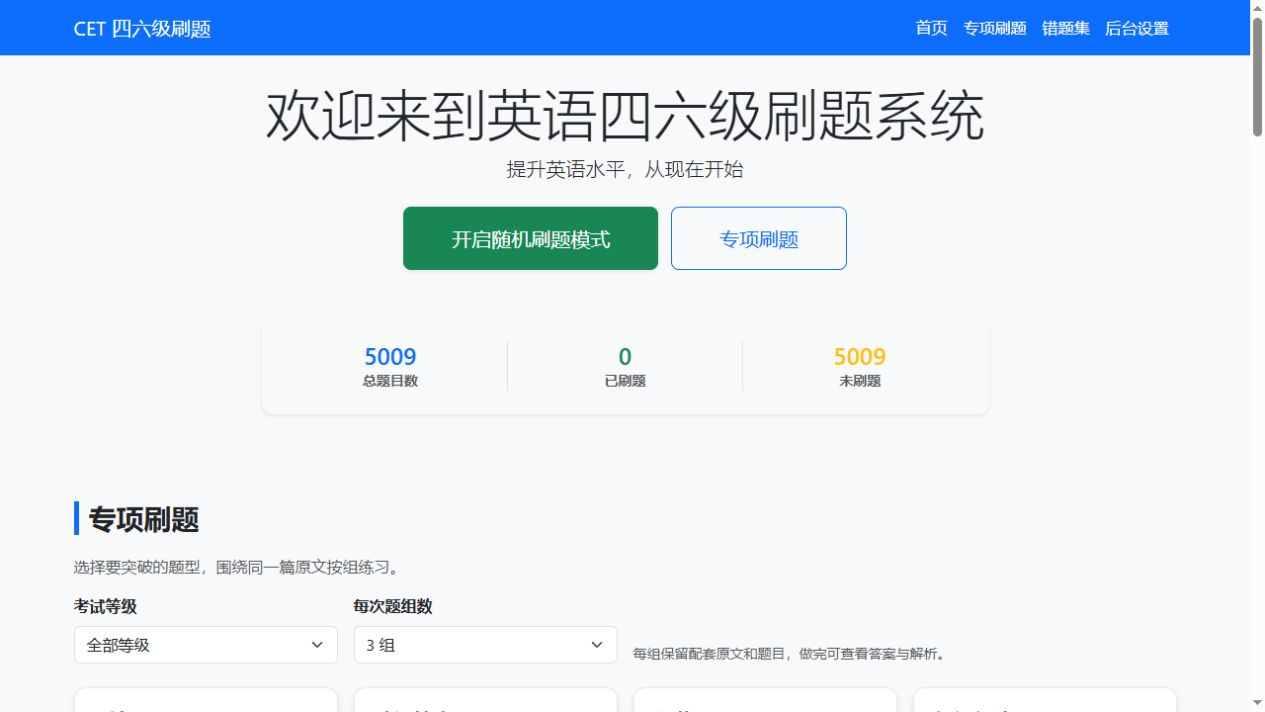
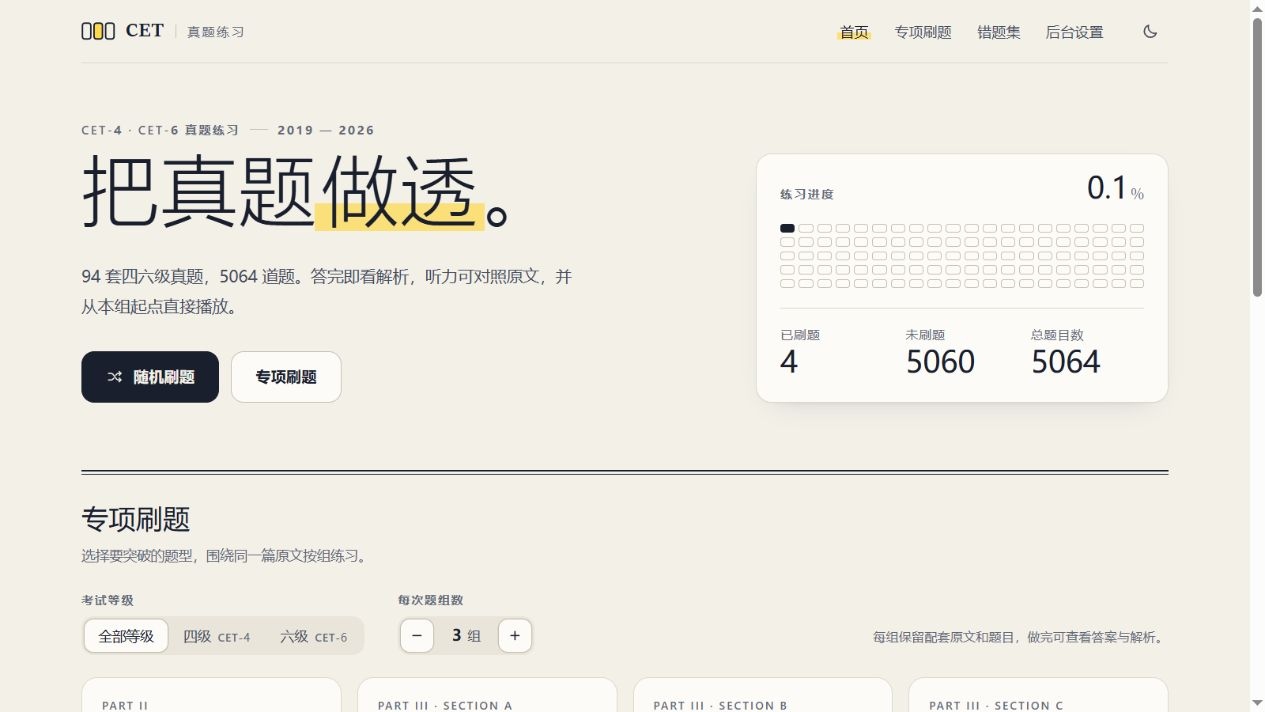
Document Windows 1.2.0 downloads and refresh interface screenshots

diff --git a/README.md b/README.md
@@ -4,23 +4,25 @@
 
 ## 下载与使用
 
-当前版本：**1.1.0**。两个程序包适用于 Windows 10/11 x64，均为未签名便携版，解压后使用，无需安装 Python。
+当前版本：**1.2.0**。桌面程序和网页启动器均已采用下方展示的新界面与常规数字字体。两个程序包适用于 Windows 10/11 x64，均为未签名便携版，解压后使用，无需安装 Python。
 
 | 版本 | 下载 | 使用方式 |
 | --- | --- | --- |
-| Windows 桌面程序 | [桌面版 ZIP](https://github.com/ShepiTT/CET_practice_questions/releases/download/v1.1.0/cet-practice-1.1.0-windows-desktop-x64.zip)（881.8 MB） | 解压完整目录，双击 `CETPractice.exe`，在独立窗口中刷题；需要系统 Edge WebView2 和 .NET 运行环境。 |
-| Windows 网页启动器 | [网页启动器 ZIP](https://github.com/ShepiTT/CET_practice_questions/releases/download/v1.1.0/cet-practice-1.1.0-windows-web-launcher-x64.zip)（881.8 MB） | 解压完整目录，双击 `CETPractice-Web.exe`，使用默认浏览器刷题；附带控制窗，可重新打开页面或退出服务。 |
-| 源码 | [下载 1.1.0 源码](https://github.com/ShepiTT/CET_practice_questions/archive/refs/tags/v1.1.0.zip) | 按下方“快速开始”安装 Python 依赖并启动。 |
+| Windows 桌面程序 | [桌面版 ZIP](https://github.com/ShepiTT/CET_practice_questions/releases/download/v1.2.0/cet-practice-1.2.0-windows-desktop-x64.zip)（834.9 MB） | 解压完整目录，双击 `CETPractice.exe`，在独立窗口中刷题；需要系统 Edge WebView2 和 .NET 运行环境。 |
+| Windows 网页启动器 | [网页启动器 ZIP](https://github.com/ShepiTT/CET_practice_questions/releases/download/v1.2.0/cet-practice-1.2.0-windows-web-launcher-x64.zip)（834.9 MB） | 解压完整目录，双击 `CETPractice-Web.exe`，使用默认浏览器刷题；附带控制窗，可重新打开页面或退出服务。 |
+| 源码 | [下载 1.2.0 源码](https://github.com/ShepiTT/CET_practice_questions/archive/refs/tags/v1.2.0.zip) | 按下方“快速开始”安装 Python 依赖并启动。 |
 
 两个程序包都包含题库、94 个 MP3 及对应试卷、答案 PDF，页面样式和脚本也随包提供，可以离线练习。请保留解压后的完整目录，**不要只拷贝 EXE**。
 
 两版本共用 `%LOCALAPPDATA%\CETPractice` 中的个人数据库，练习记录仅保存在本机。更新前先退出旧程序，将新版解压到新文件夹后启动；程序会自动备份并追加新增试卷，保留已有题目修订和练习记录；下载包不包含发布者的个人练习记录。关闭网页浏览器不会停止本地服务，用完请在网页启动器控制窗中点击“关闭服务”。桌面版缺少 WebView2 时，可从[微软官网下载运行环境](https://developer.microsoft.com/microsoft-edge/webview2/)，或使用网页启动器版。
 
-版本说明和附件见 [Release 页面](https://github.com/ShepiTT/CET_practice_questions/releases/tag/v1.1.0)，下载后可使用 [SHA-256 校验文件](https://github.com/ShepiTT/CET_practice_questions/releases/download/v1.1.0/SHA256SUMS.txt) 核对文件。程序运行和自动化检查不代表全库逐题人工验收；内容核验范围见下方“数据状态与使用范围”。
+版本说明和附件见 [Release 页面](https://github.com/ShepiTT/CET_practice_questions/releases/tag/v1.2.0)，下载后可使用 [SHA-256 校验文件](https://github.com/ShepiTT/CET_practice_questions/releases/download/v1.2.0/SHA256SUMS.txt) 核对文件。程序运行和自动化检查不代表全库逐题人工验收；内容核验范围见下方“数据状态与使用范围”。
 
-打包与启动检查见 [Windows 版验证记录](reports/windows-release-validation-1.1.0.json)，公开附件大小、SHA-256 和匿名访问核验见 [下载校验记录](https://github.com/ShepiTT/CET_practice_questions/blob/main/reports/windows-release-publication-1.1.0.json)。
+打包与启动检查见 [Windows 版验证记录](reports/windows-release-validation-1.2.0.json)，公开附件大小、SHA-256 和匿名访问核验见 [下载校验记录](https://github.com/ShepiTT/CET_practice_questions/blob/main/reports/windows-release-publication-1.2.0.json)。
 
 ## 界面展示
+
+以下为 1.2.0 的实际界面。首页统计、年份、题号与听力时间采用常规数字字体；Windows 优先使用微软雅黑。页面提供答题进度、题号定位与可收起的原文和解析。
 
 ### 首页 · 选择等级与试卷
 
@@ -38,7 +40,7 @@
 
 从题组起点播放录音，按需展开听力原文和解析。共享听力会明确标注实际来源，选项与判分始终对应同一套题。
 
-![听力练习的播放控件、选项与答案解析](docs/images/listening-practice.jpg)
+![听力练习的播放控件、题号与选项](docs/images/listening-practice.jpg)
 
 ### 2026 年 6 月六级第 1 套
 
@@ -56,7 +58,8 @@
 | 专项刷题 | 按四级、六级或全部等级筛选，每次抽取 1–10 个题组，默认 3 组；换一批保留筛选条件。 |
 | 随机练习 | 从可用题组中抽取练习，保留原文、词库、音频与解析。 |
 | 听力播放 | 每组有播放按钮和起点定位，支持显示、隐藏听力原文。 |
-| 作答与解析 | 提交后即时判分，可展开答案和详细解析。 |
+| 作答与解析 | 提交后即时判分，可展开答案和详细解析；“显示所有答案”只查看答案，不写入练习记录。 |
+| 进度与题号定位 | 查看本次已答数量和对错统计，通过答题卡跳到指定题目。 |
 | 错题复习 | 按完整题组回看错题，并支持再次作答。 |
 | 题库维护 | 从 PDF 导入题目，在后台手动校对或批量导入答案、解析。 |
 
